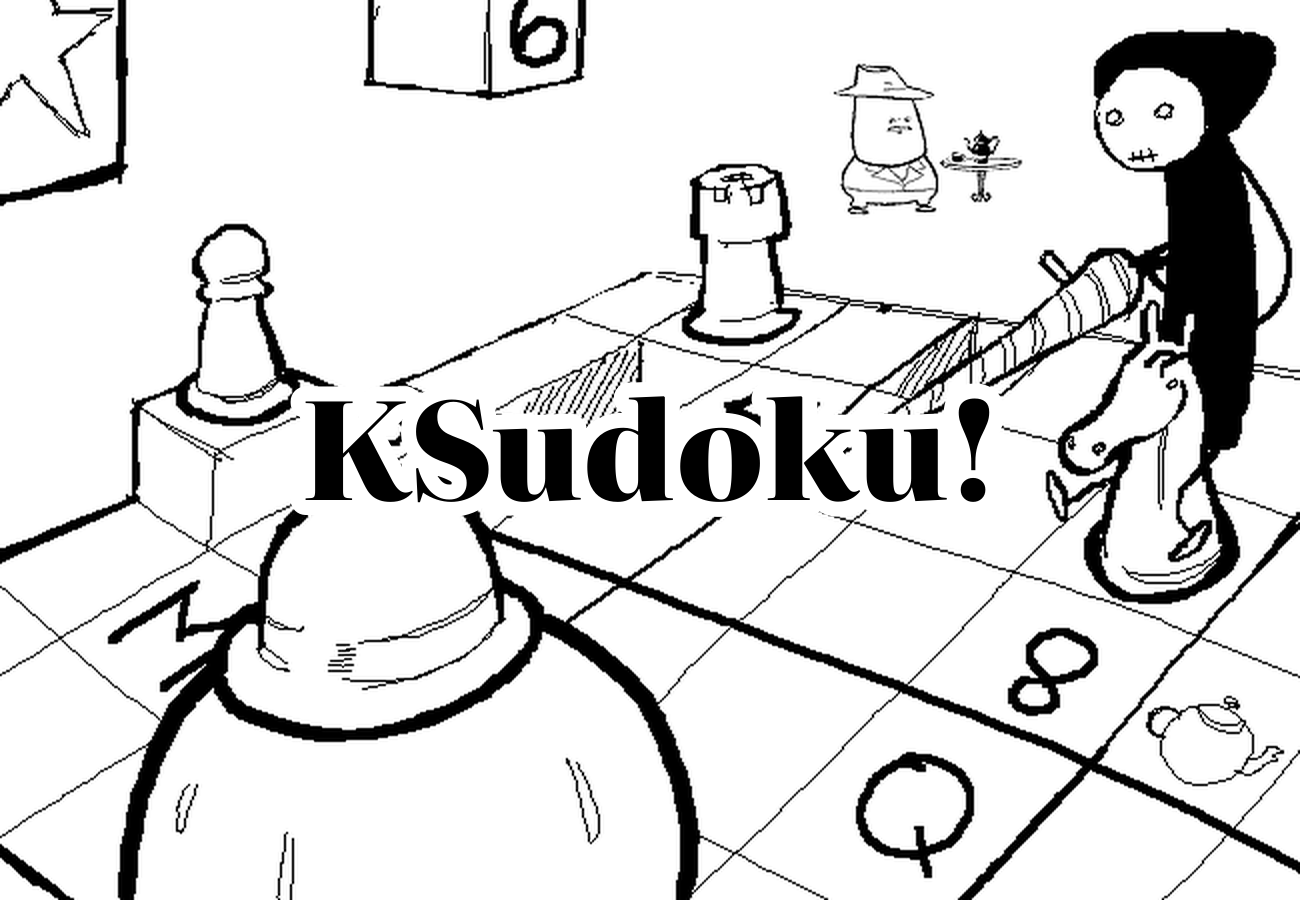
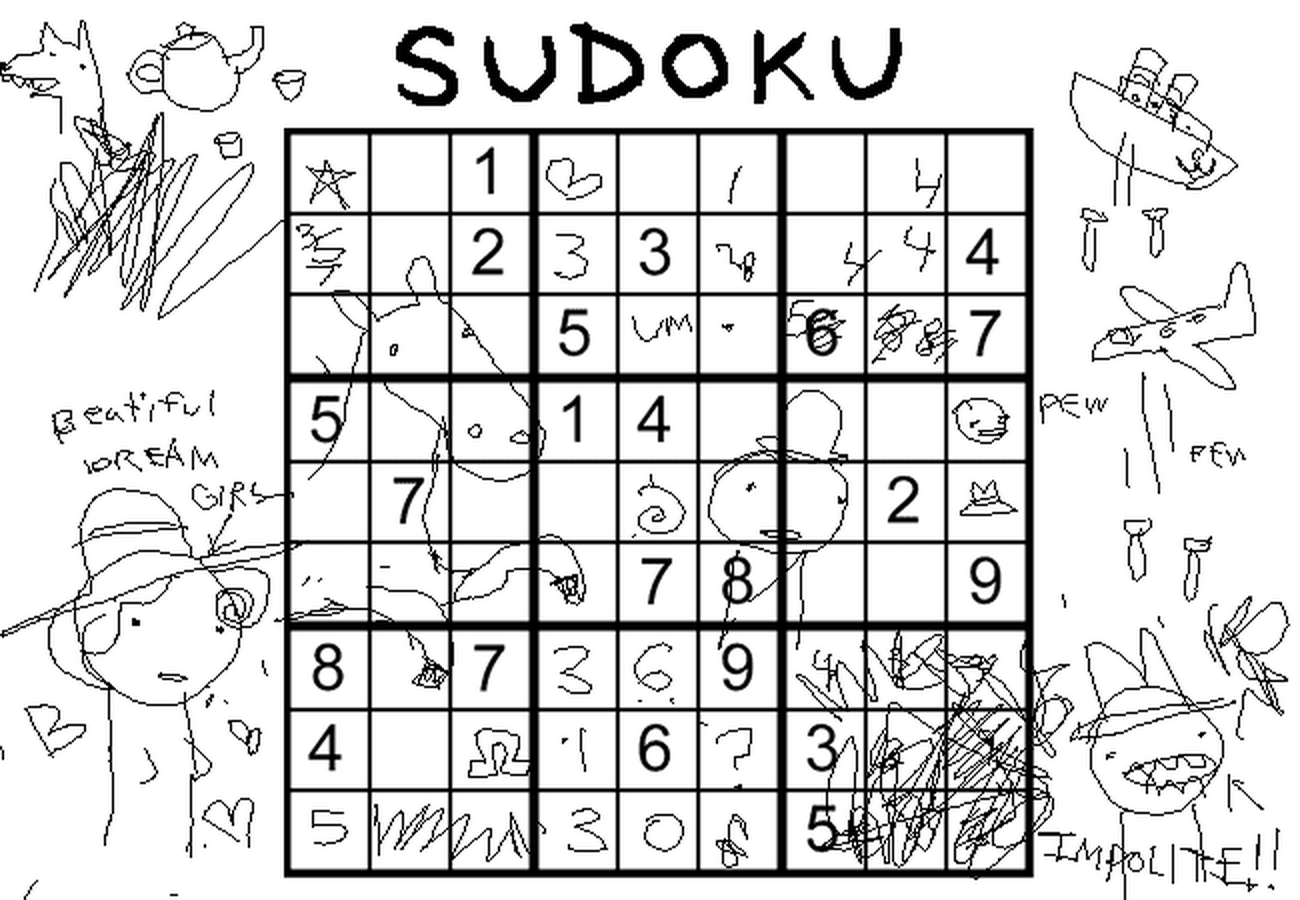
ksudoku 1.1.0: picture background in settings, optional game background; new SUDOKU art

diff --git a/index_builder/templates/index.html b/index_builder/templates/index.html
@@ -97,7 +97,7 @@ footer p:first-child { color: var(--accent); font-size: 1.2rem; }
 </head>
 <body>
 <header class="title">
-  <img class="hero" src="assets/hero.png" width="1300" height="900" alt="KSudoku! A stick-figure wizard on a chess knight charges a lance across a sudoku board.">
+  <img class="hero" src="assets/hero.png" width="1300" height="900" alt="A hand-drawn sudoku grid titled SUDOKU, scribbled over with doodles.">
   <p class="kicker">a KPM repository · {{ manifest["id"] }}</p>
   <h1>{{ manifest["name"] }}</h1>
   <p class="sub">{{ manifest["description"] }}</p>
